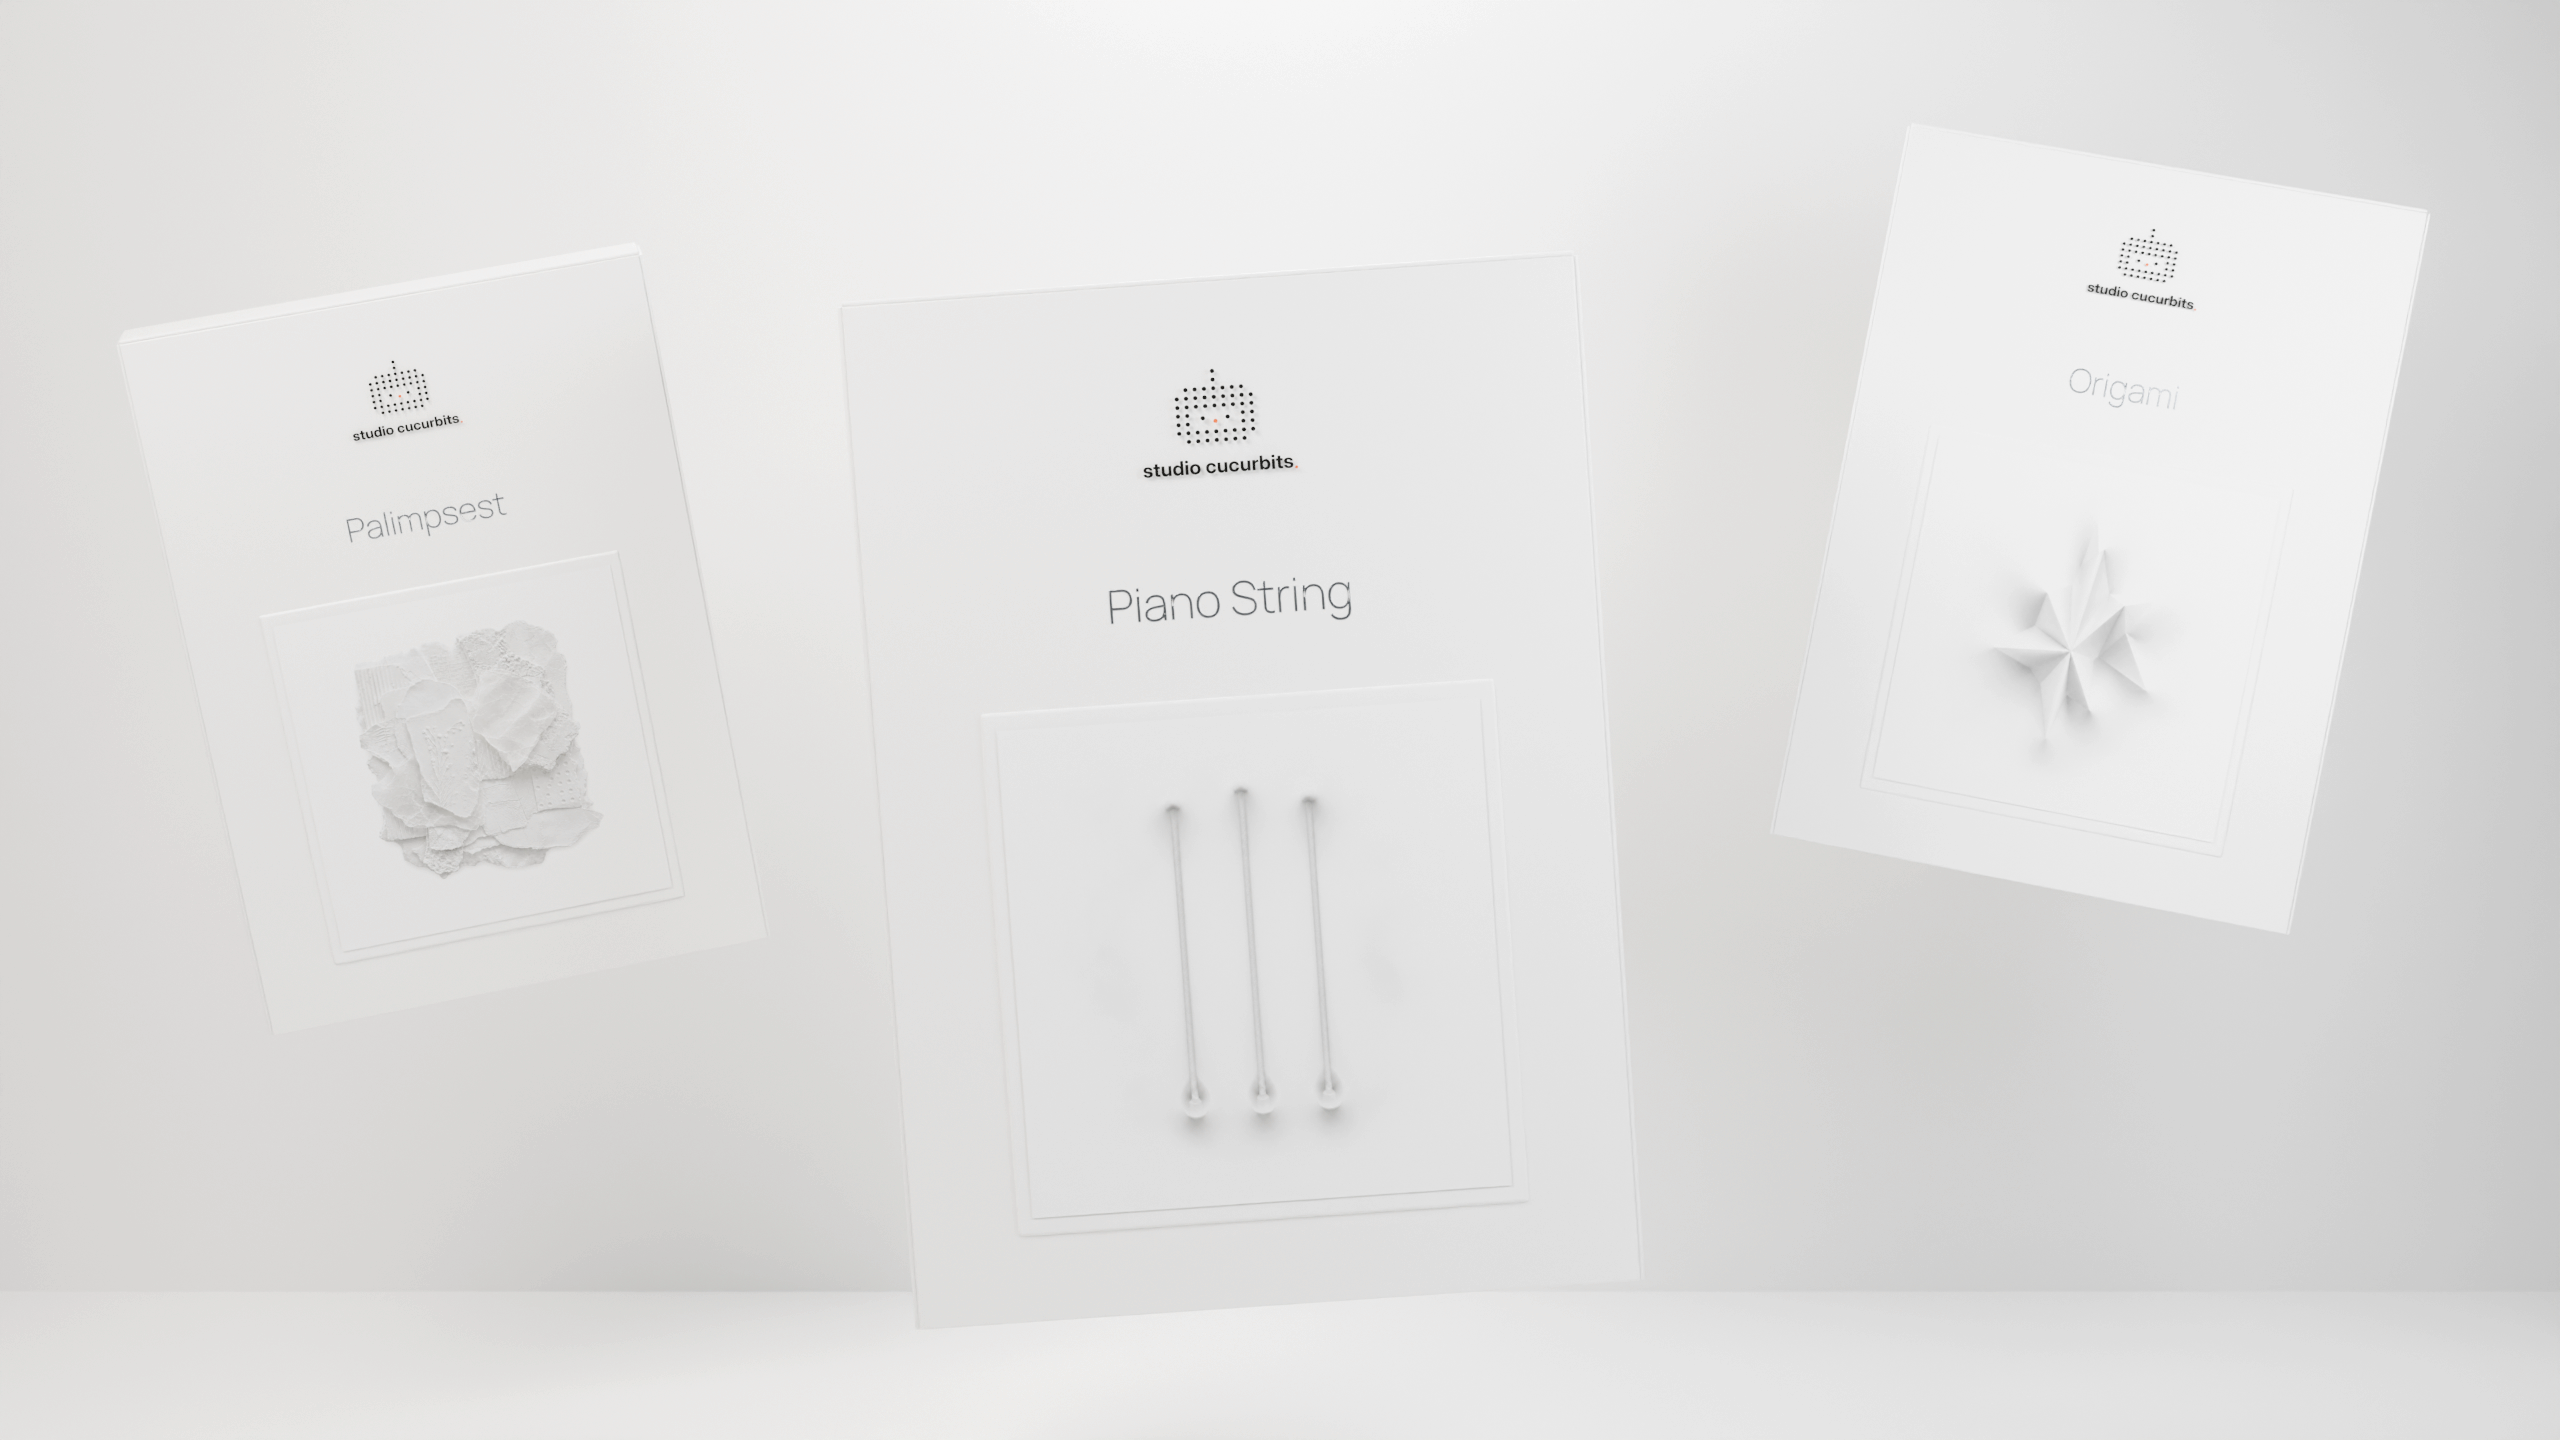
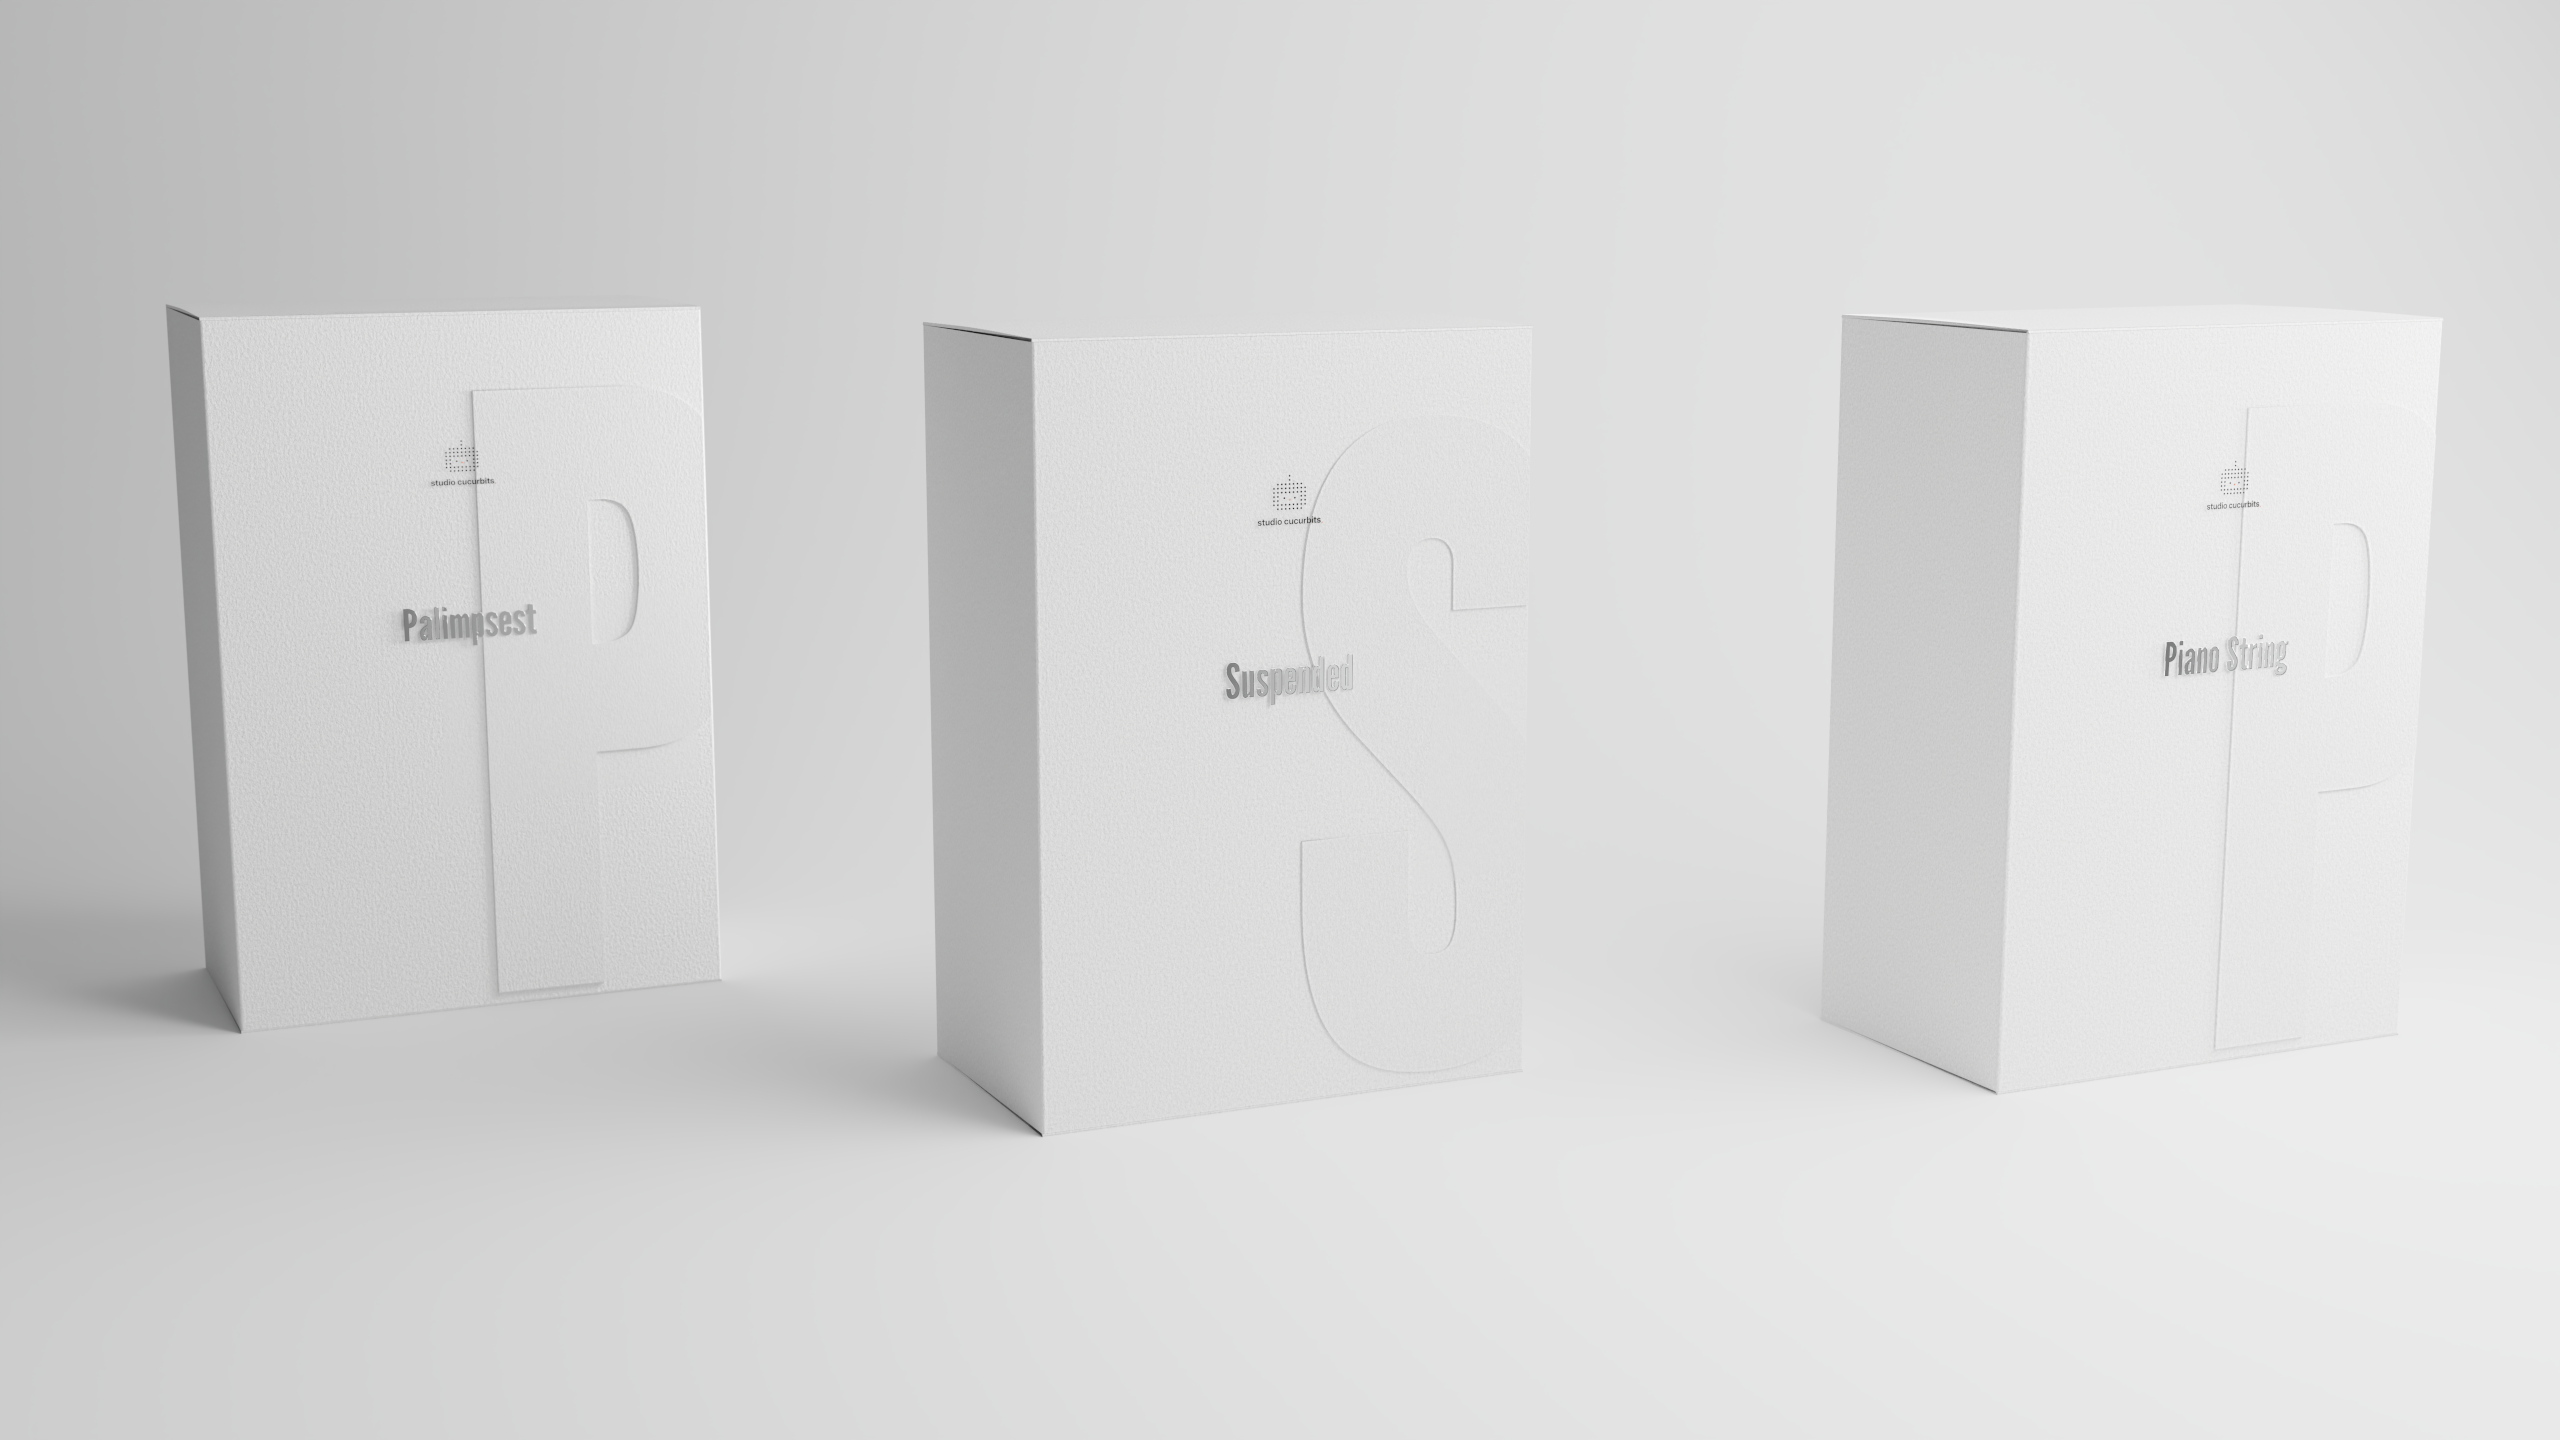
feat: new products hero with the procedural box mockups
Palimpsest, Suspended and Piano String on one sweep, rendered with the same carton pipeline.

diff --git a/src/data/site.ts b/src/data/site.ts
@@ -1,6 +1,6 @@
 // Mockups are replaced under the same file names; Cloudflare tells browsers to keep images for 4 h,
 // so bump this on every mockup deploy.
-export const MOCKUP_V = '?v=2026091316';
+export const MOCKUP_V = '?v=2026091317';
 
 export interface BusinessArea {
   slug: string;
